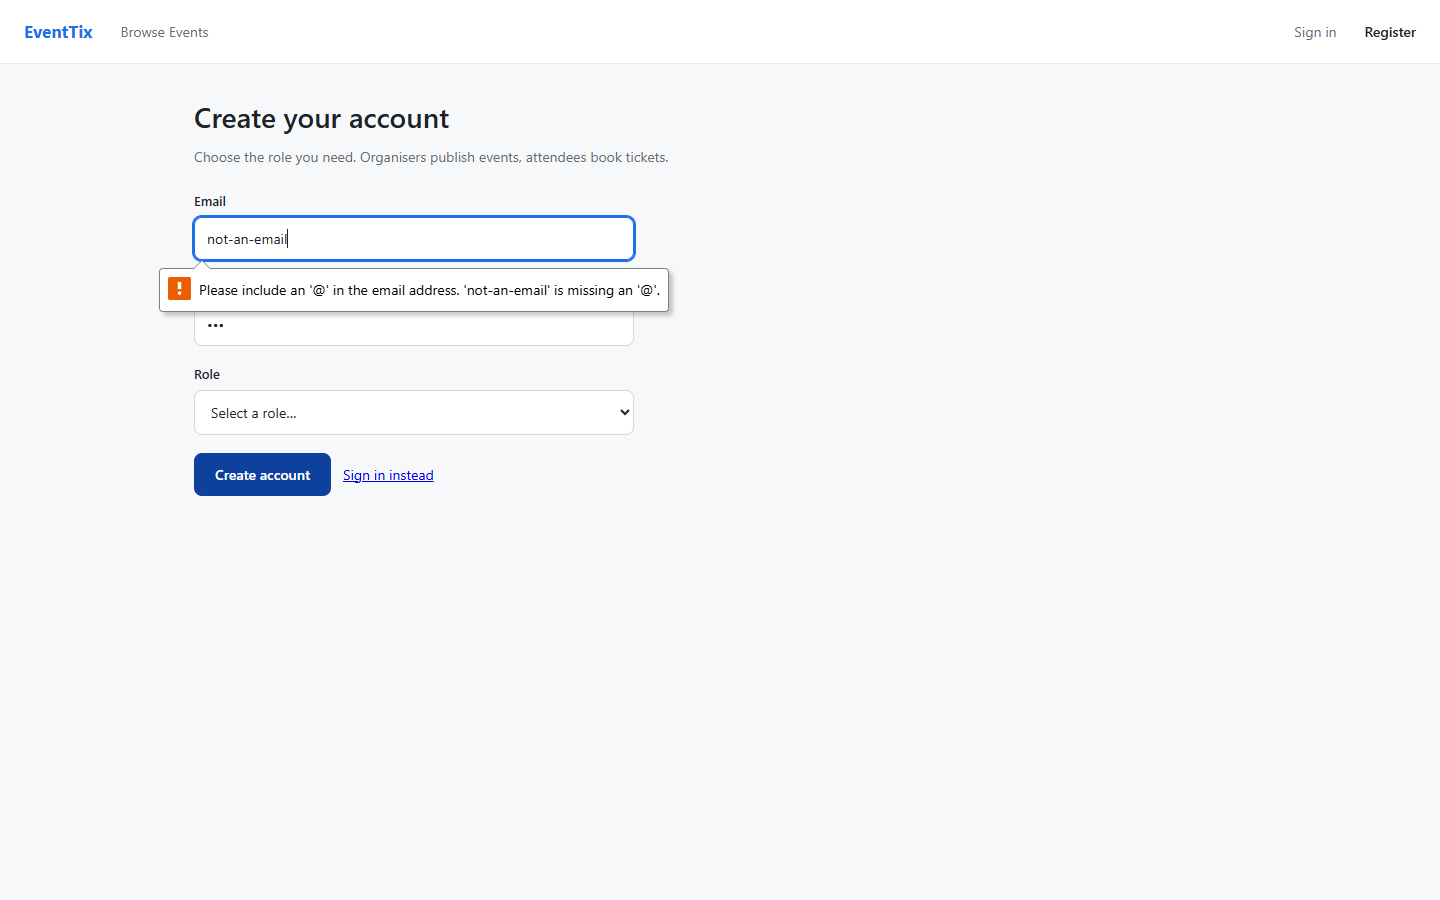
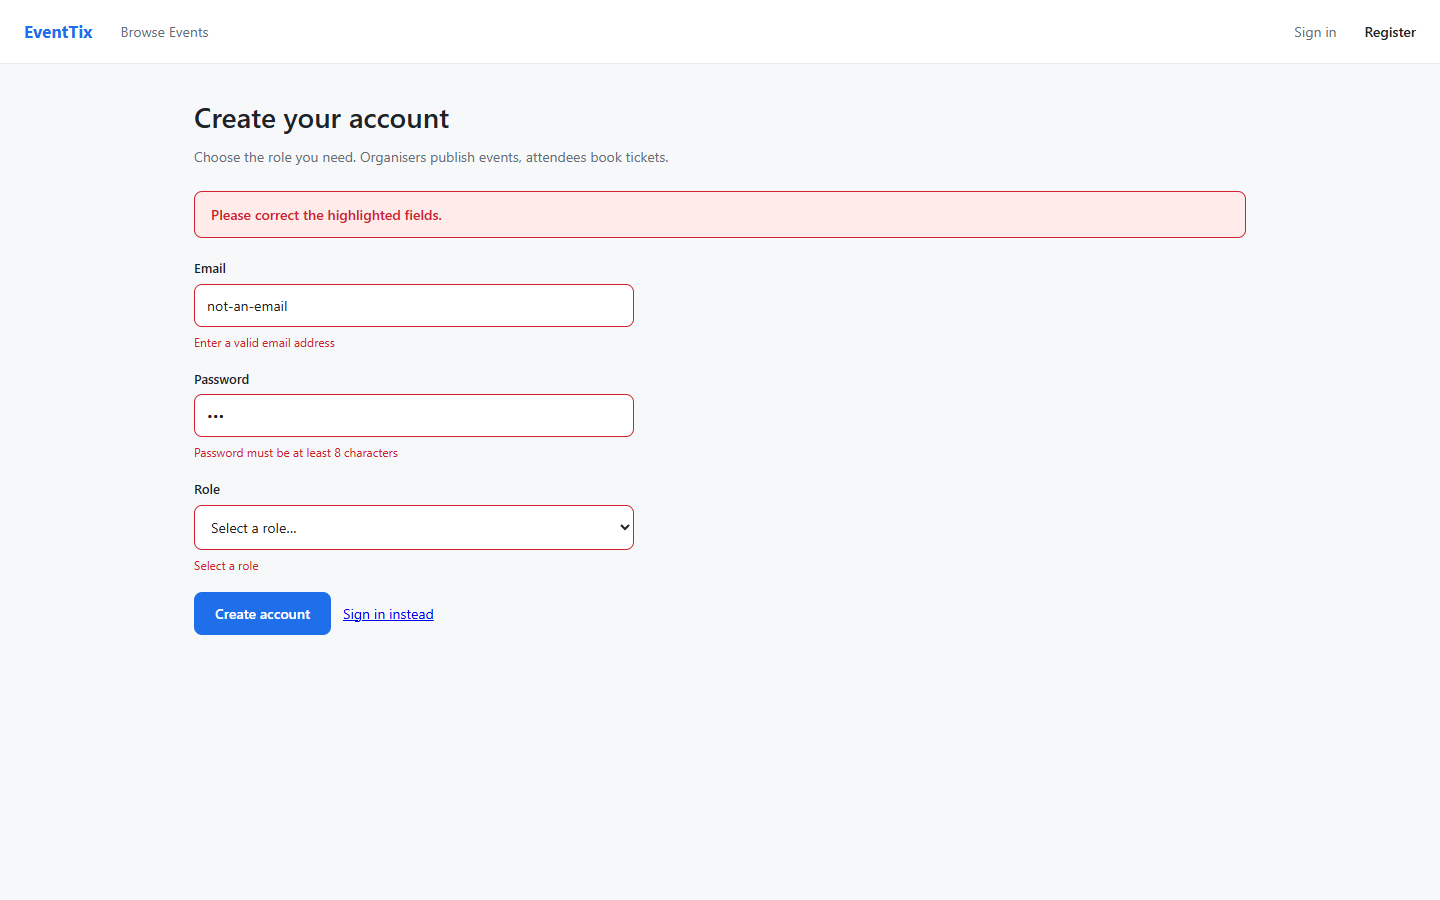
N1 stop the same message appearing twice on the event page
Also found while checking screenshots. When a booking was rejected the page
showed Only 3 seats remain for this event as a red error and again as a
yellow warning directly underneath, which reads like two separate problems.
The warning is now suppressed while an error is on screen, and it uses the
singular form when only one seat is left.

Changed region(s): [[0.0938, 0.2178, 0.4688, 0.4667], [0.125, 0.4978, 0.2812, 0.5911], [0.125, 0.6222, 0.25, 0.7156]]

diff --git a/frontend/src/pages/EventDetail.jsx b/frontend/src/pages/EventDetail.jsx
@@ -103,11 +103,18 @@ export default function EventDetail() {
 
       {message && <div className={`banner ${messageKind}`}>{message}</div>}
 
-      {event.seatsRemaining === 0 ? (
-        <div className="banner warn">This event is sold out.</div>
-      ) : event.seatsRemaining <= 10 ? (
-        <div className="banner warn">Only {event.seatsRemaining} seats remain for this event.</div>
-      ) : null}
+      {/* Only show the low seat warning when there is no error on screen. If a booking was
+          just rejected the error banner already says how many seats are left, and showing
+          the warning as well repeated the same sentence twice in two different colours. */}
+      {!message && (
+        event.seatsRemaining === 0 ? (
+          <div className="banner warn">This event is sold out.</div>
+        ) : event.seatsRemaining <= 10 ? (
+          <div className="banner warn">
+            Only {event.seatsRemaining} {event.seatsRemaining === 1 ? 'seat remains' : 'seats remain'} for this event.
+          </div>
+        ) : null
+      )}
 
       {event.status === 'CANCELLED' ? (
         <div className="banner error">This event has been cancelled.</div>
